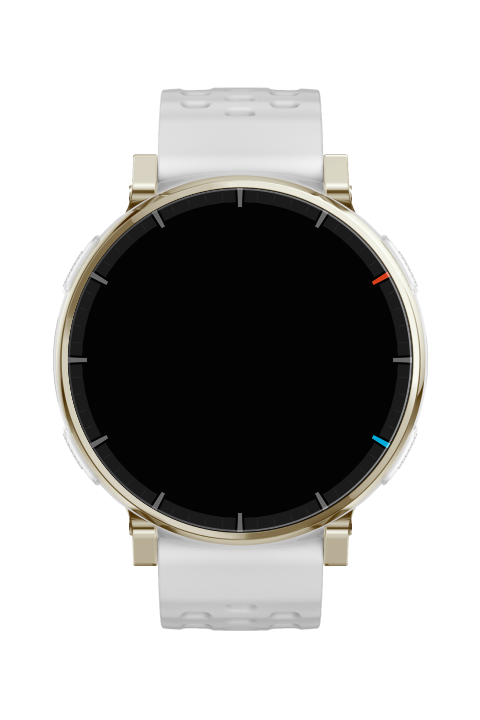
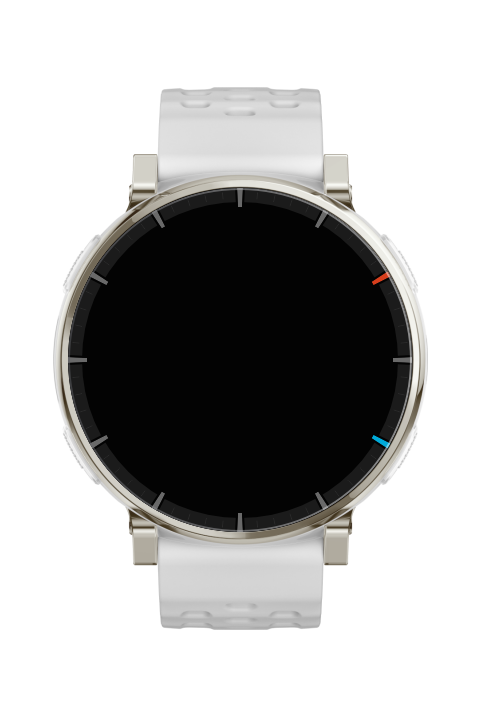
Added new devices

diff --git a/modals/history_ru.html b/modals/history_ru.html
@@ -1,5 +1,11 @@
 <div id="versions">
   <div>
+    <div class="version">1.3.17</div>
+    - Обновлены изображения для Amazfit Active 3 Premium.</br>
+    - Добавлены Huawei Watch Buds 2 (Black, Brown), Watch Kids X1 (Blue, Pink), Watch Kids X1 Pro (Black, Purple), Watch Ultimate Design Spring Edition.</br>
+    - Добавлены Tecno Watch Neo (Black, Orange), Watch 3 Active (Black, Gold, Silver), Watch 3 Pro (Black).</br>
+  </div>
+  <div>
     <div class="version">1.3.16</div>
     - Добавлены Amazfit Balance 3, Balance Ultra, Cheetah 2 Pro, Cheetah 2 Ultra, Bip Max (Carbon Gray, Dark Blue, Silver).</br>
   </div>

diff --git a/index.html b/index.html
@@ -174,7 +174,7 @@
   </div>
   <div id="version" class="button openModal" data-type="history" data-i18n-title="titles.history"
     title="История версий">
-    1.3.16</div>
+    1.3.17</div>
   <div id="openFaq" class="button openModal" data-type="faq" data-i18n-title="titles.faq" title="Как пользоваться">
     <svg viewBox="0 0 24 24">
       <path fill="currentColor"
